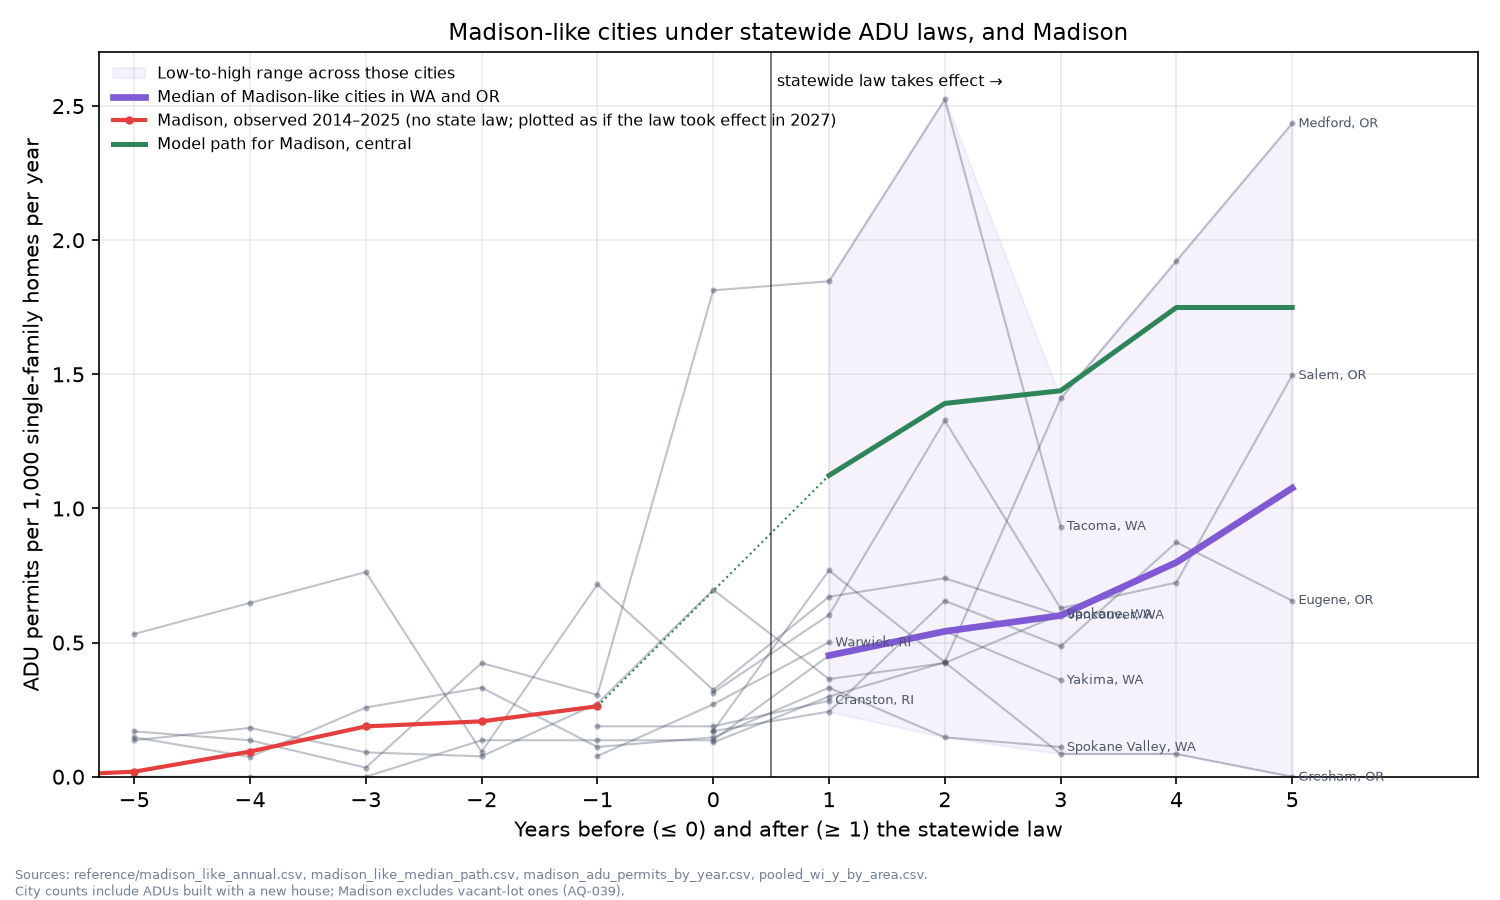
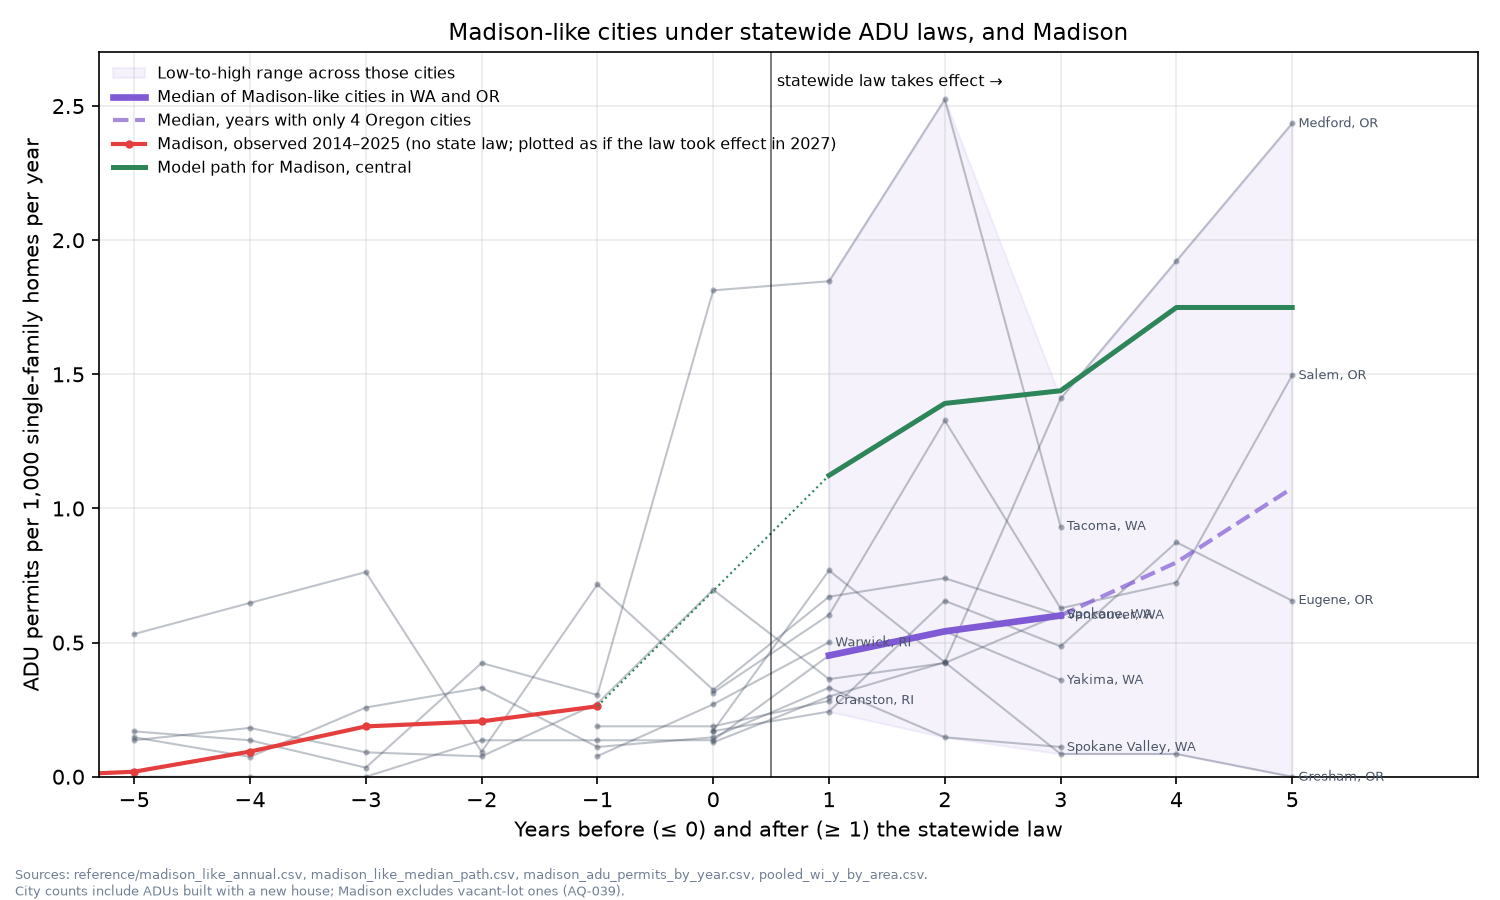
Spaghetti plots: medians end where data end; thin-data years dashed

Changed region(s): [[0.0613, 0.1244, 0.552, 0.1867], [0.7053, 0.5289, 0.8587, 0.6844]]

diff --git a/scripts/plot_adoption_spaghetti.py b/scripts/plot_adoption_spaghetti.py
@@ -58,7 +58,8 @@ def states_chart() -> Path:
 
     fig, ax = plt.subplots(figsize=(10, 6), dpi=150)
     ax.set_ylim(0, 2.7)
-    obs = curve[curve["n_states"] >= 4]  # years with 4+ states; later years shown dashed
+    # Median and range from observed points only, so lines end where data end.
+    obs = pts.groupby("k")["rate"].agg(n="count", median_rate="median", min_rate="min", max_rate="max").reset_index()
     ax.fill_between(obs["k"], obs["min_rate"], obs["max_rate"], color=BLUE, alpha=0.12,
                     label="Low-to-high range across states (excl. California)")
     for series, g in annual[annual["series"].isin(k1.index)].groupby("series"):
@@ -73,9 +74,10 @@ def states_chart() -> Path:
     ax.plot(ca_k, ca_r, color=ORANGE, alpha=0.55, lw=1.1, marker="o", ms=2.5)
     ax.annotate("California (2017 law)", (ca_k[-1], ca_r[-1]), xytext=(4, 0), textcoords="offset points",
                 fontsize=6.5, color=ORANGE, va="center")
-    ax.plot(obs["k"], obs["median_rate"], color=BLUE, lw=3.2, label="Median across states (excl. California)")
-    ax.plot(curve["k"][curve["k"] >= obs["k"].max()], curve["median_rate"][curve["k"] >= obs["k"].max()],
-            color=BLUE, lw=2, ls="--", alpha=0.7, label="Median, years with only 3 states")
+    full, thin = obs[obs["n"] >= 4], obs[obs["k"] >= obs.loc[obs["n"] >= 4, "k"].max()]
+    ax.plot(full["k"], full["median_rate"], color=BLUE, lw=3.2, label="Median across states (excl. California)")
+    ax.plot(thin["k"], thin["median_rate"], color=BLUE, lw=2, ls="--", alpha=0.7,
+            label="Median, years with only 3 states")
     for path, style in (("central", dict(lw=2.4, ls="-")), ("lower", dict(lw=1.2, ls=":")), ("upper", dict(lw=1.2, ls=":"))):
         p = by_year[by_year["path"] == path]
         rate = (p["baseline_units"] + p["additional_units"]) / WI_HOMES * 1000
@@ -112,8 +114,12 @@ def cities_chart() -> Path:
         ax.plot(g["year_since_law"], g["rate_per_1000"], color=GREY, alpha=0.35, lw=1, marker="o", ms=2)
         ax.annotate(f"{city}, {state}", (g["year_since_law"].iloc[-1], g["rate_per_1000"].iloc[-1]), xytext=(3, 0),
                     textcoords="offset points", fontsize=6, color=GREY, va="center")
-    ax.plot(med["year_since_law"], med["median_rate"], color=PURPLE, lw=3.2,
+    full = med[med["n_cities"] >= 5]
+    thin = med[med["year_since_law"] >= full["year_since_law"].max()]
+    ax.plot(full["year_since_law"], full["median_rate"], color=PURPLE, lw=3.2,
             label="Median of Madison-like cities in WA and OR")
+    ax.plot(thin["year_since_law"], thin["median_rate"], color=PURPLE, lw=2, ls="--", alpha=0.7,
+            label="Median, years with only 4 Oregon cities")
     k = mad["year"] - FORECAST_START + 1
     ax.plot(k, mad["units"] / homes * 1000, color=RED, lw=2, marker="o", ms=3,
             label="Madison, observed 2014–2025 (no state law; plotted as if the law took effect in 2027)")
